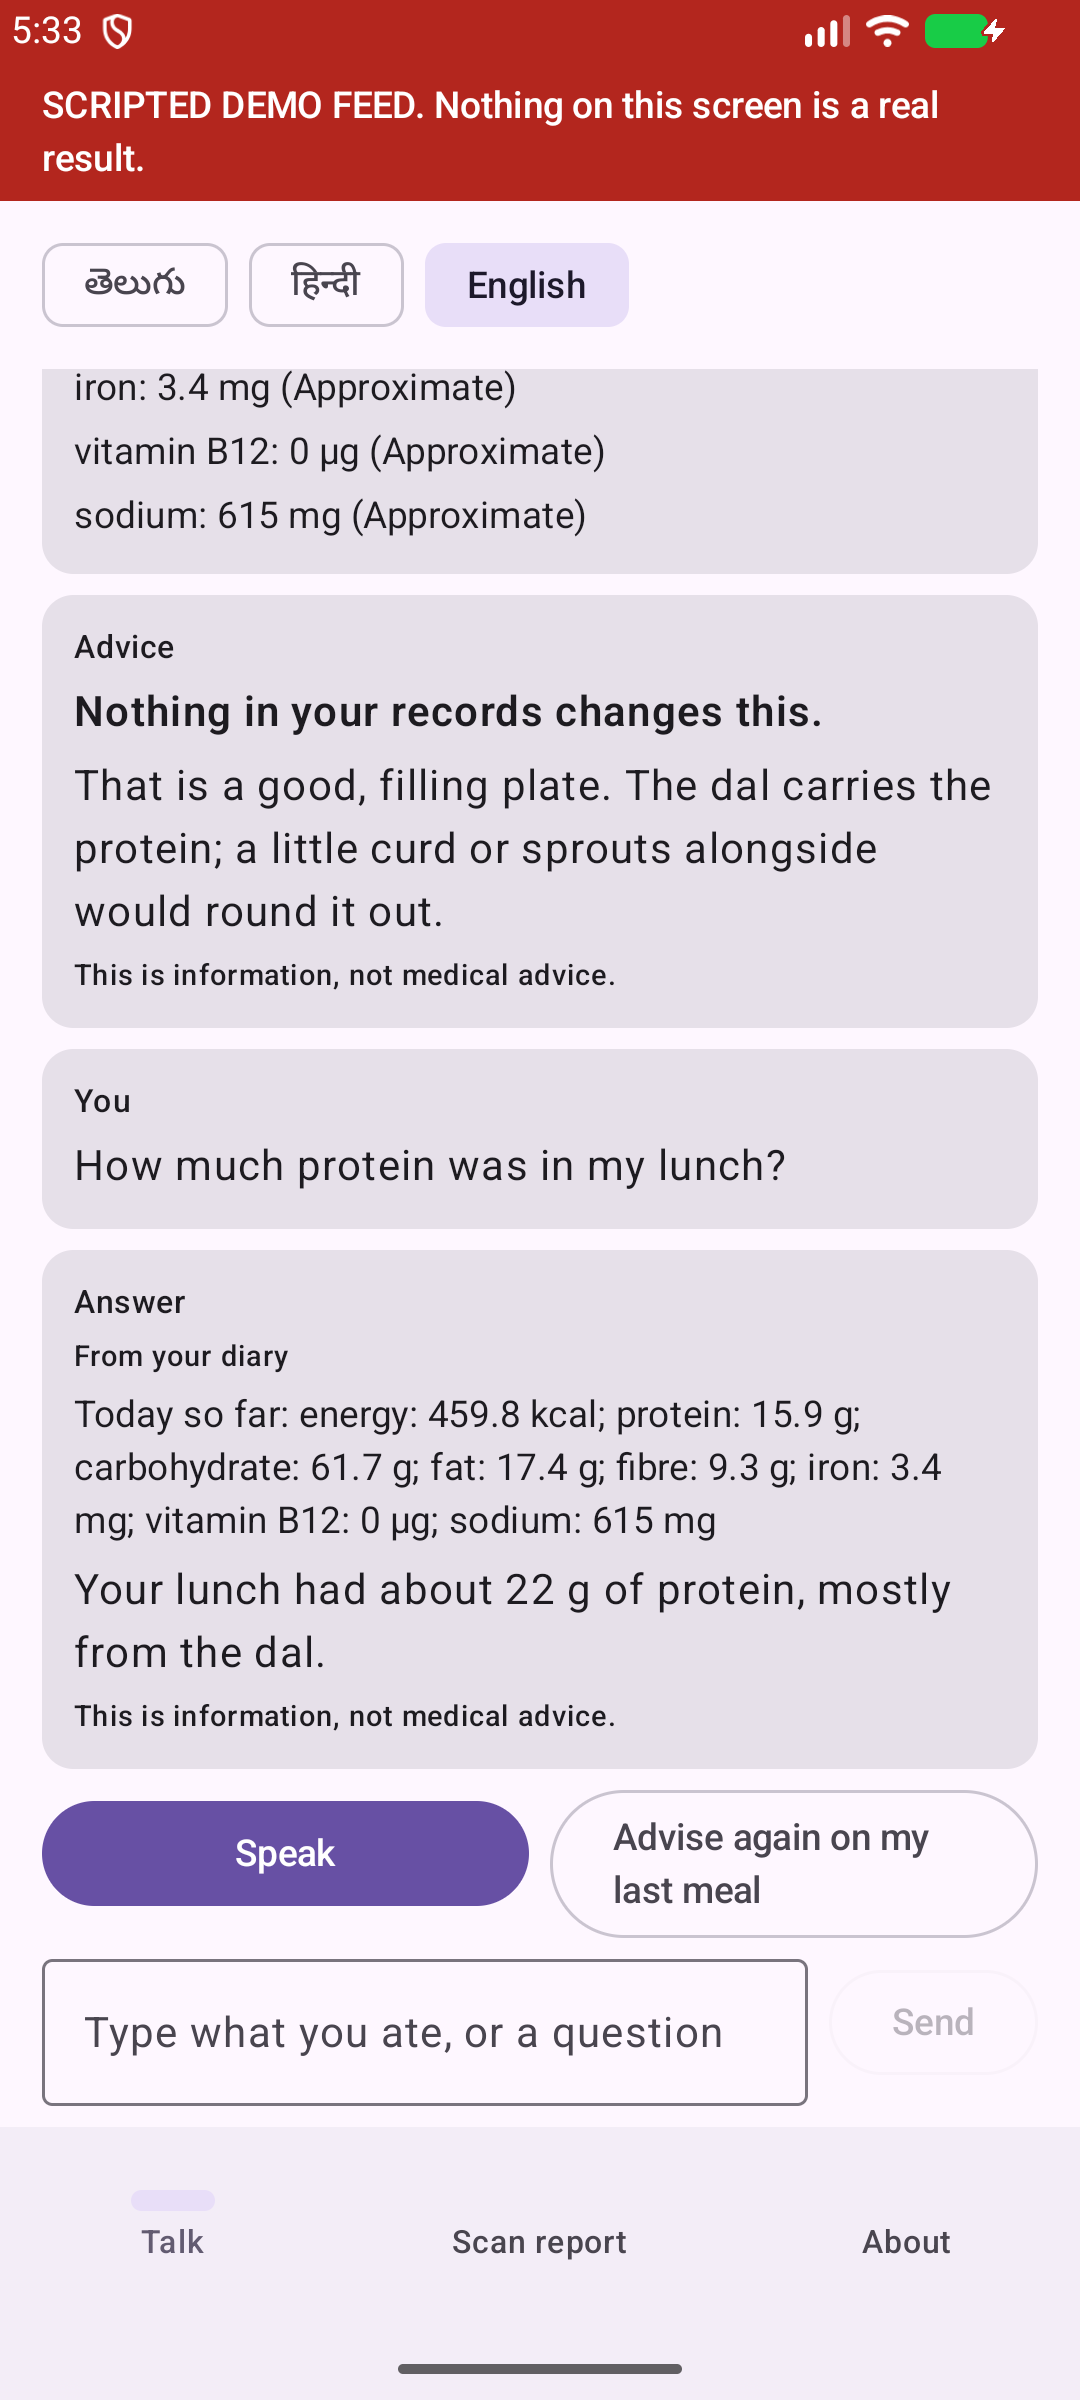
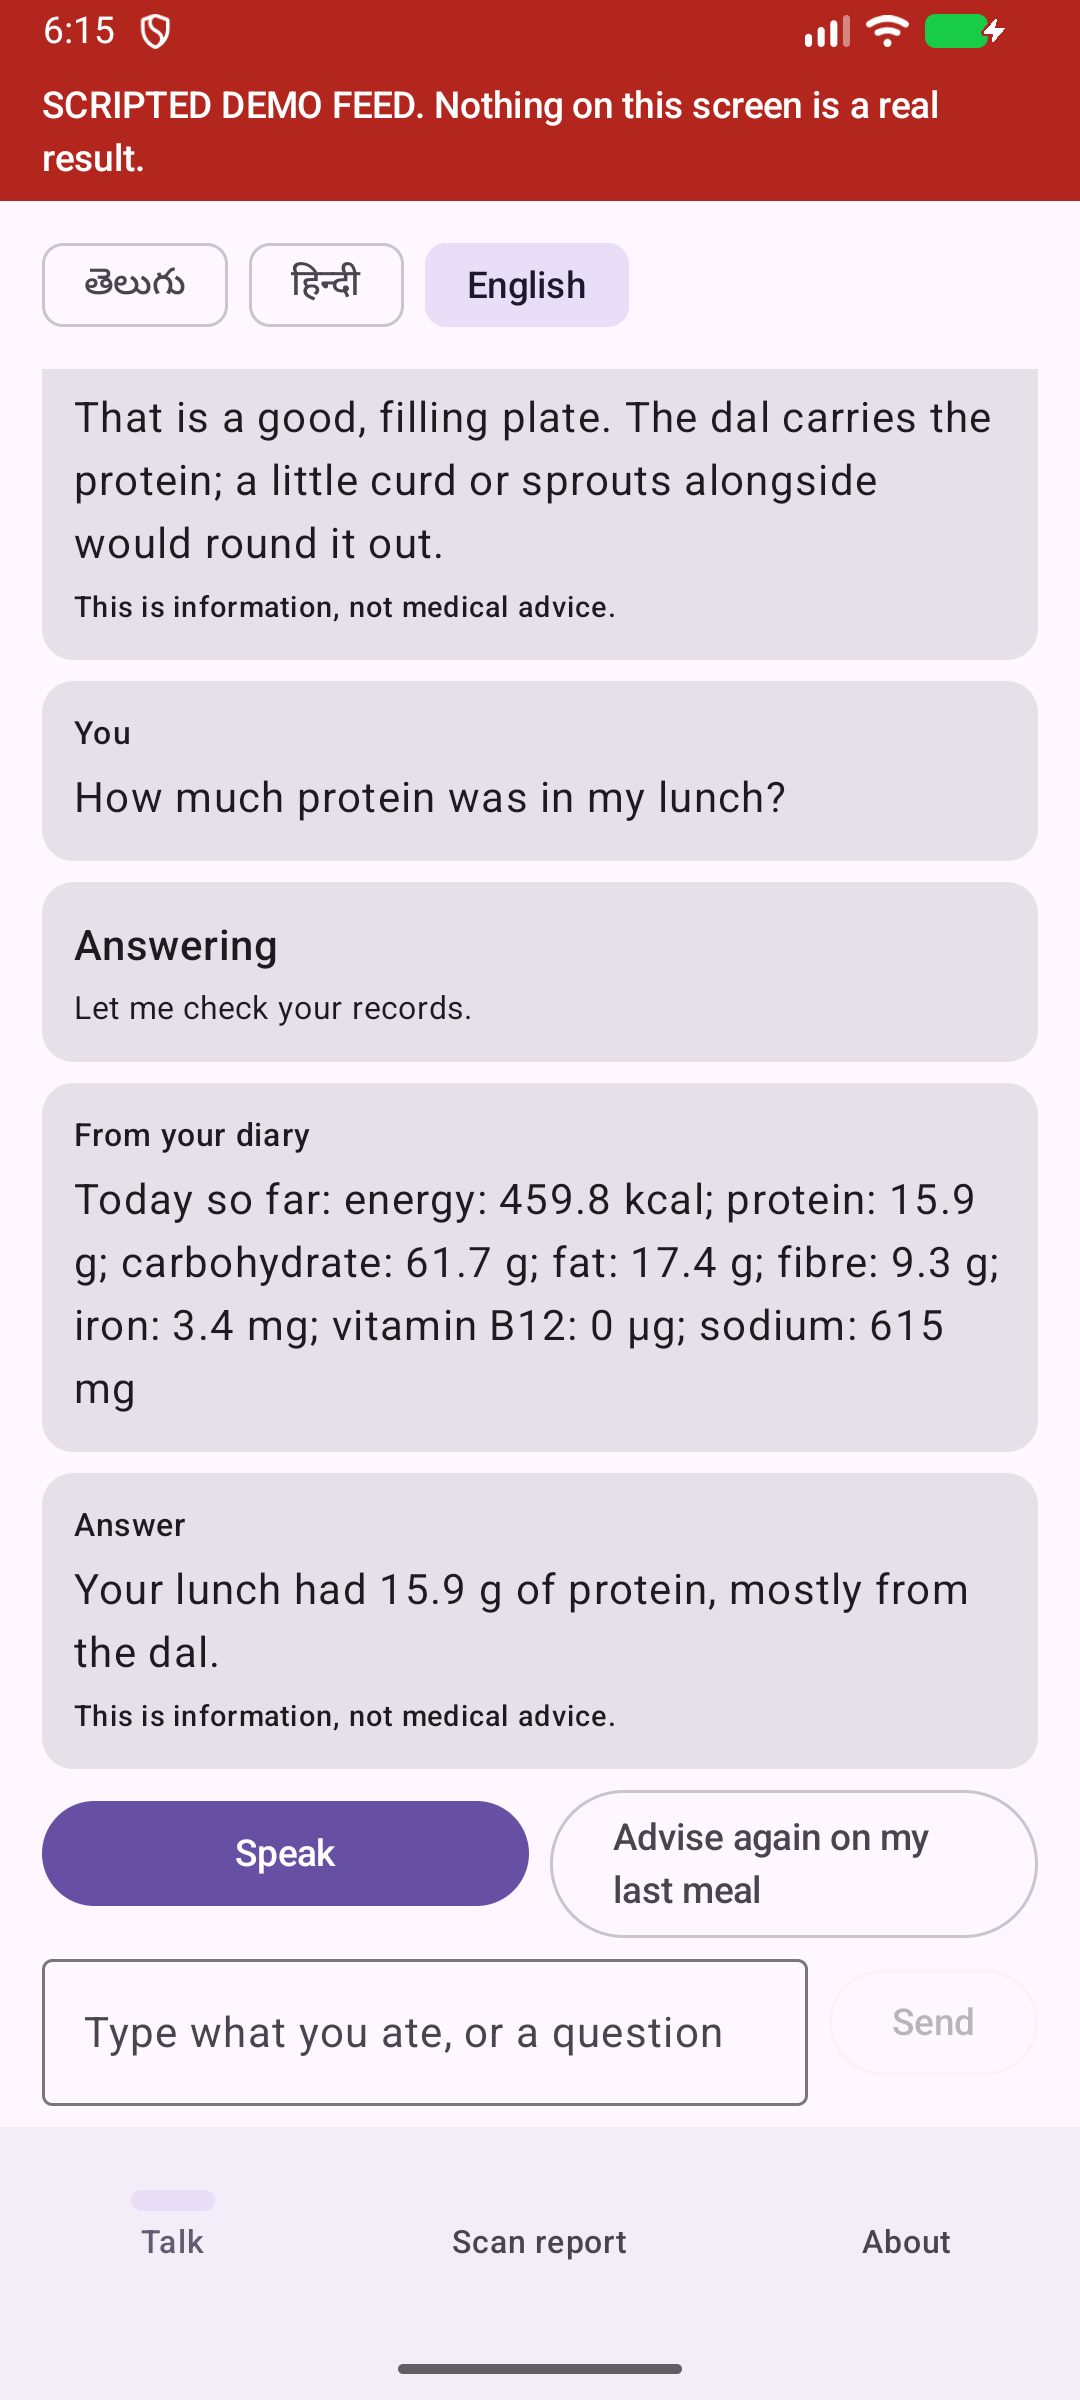
Render the intent heading, the diary lines before the answer, and a stop control; retake beat 2
IntentKnown becomes the heading over the turn with the lead-in phrase as
spoken; OwnFigures becomes its own card the moment it arrives, before any
model call, so the person's figure is on screen and the model's sentence
is the part that arrives late; StopSpeaking replaces Speak while the
answer is spoken. The scripted feed emits the same three, and its answer
takes its one number from the totals the diary line shows. Beat 2 retaken
on the emulator with the feed on.

diff --git a/app/src/main/java/io/github/vedant7007/katori/ui/TalkViewModel.kt b/app/src/main/java/io/github/vedant7007/katori/ui/TalkViewModel.kt
@@ -1,8 +1,11 @@
 package io.github.vedant7007.katori.ui
 
+import android.content.Context
 import androidx.lifecycle.ViewModel
 import androidx.lifecycle.viewModelScope
 import dagger.hilt.android.lifecycle.HiltViewModel
+import dagger.hilt.android.qualifiers.ApplicationContext
+import io.github.vedant7007.katori.R
 import io.github.vedant7007.katori.domain.ContextText
 import io.github.vedant7007.katori.domain.Orchestrator
 import io.github.vedant7007.katori.domain.OrchestratorEvent
@@ -50,13 +53,28 @@ class TalkViewModel @Inject constructor(
     private val triggerText: TriggerText,
     private val contextText: ContextText,
     rules: RulesEngine,
+    @ApplicationContext context: Context,
 ) : ViewModel() {
 
-    private val scripted = ScriptedOrchestrator(rules, contextText, triggerText)
+    private val scripted = ScriptedOrchestrator(
+        rules, contextText, triggerText,
+        leadIns = mapOf(
+            SpokenIntent.LOG to context.getString(R.string.tts_lead_in_log),
+            SpokenIntent.ANSWER to context.getString(R.string.tts_lead_in_answer),
+            SpokenIntent.SUGGEST to context.getString(R.string.tts_lead_in_suggest),
+            SpokenIntent.RECOMMEND to context.getString(R.string.tts_lead_in_recommend),
+        ),
+    )
 
     sealed interface Entry {
         /** What was heard or typed, shown the moment it is known. */
         data class Said(val text: String) : Entry
+
+        /** 0026 step 5: which of the four the turn became, and the lead-in phrase as it is spoken. */
+        data class Heading(val intent: SpokenIntent, val leadIn: String?) : Entry
+
+        /** The person's own lines, straight from the store, before any model call: the answer itself. */
+        data class Figures(val lines: List<String>) : Entry
 
         /** A resolved plate: the items as said, each figure as a rendered line with its band. */
         data class Plate(
@@ -110,6 +128,12 @@ class TalkViewModel @Inject constructor(
     fun resolve(transcript: String, intent: SpokenIntent) = run(UserIntent.Resolve(transcript, language(), intent))
     fun adviseAgain() { state.value.lastMealId?.let { run(UserIntent.AdviseOnMeal(it)) } }
 
+    /** 0026 step 8: stops speech only; the turn and its text are untouched. Sent while busy, by design. */
+    fun stopSpeaking() {
+        val source = if (DemoFeed.enabled.value) scripted else orchestrator
+        viewModelScope.launch(Dispatchers.Default) { source.handle(UserIntent.StopSpeaking).catch { }.collect { } }
+    }
+
     private fun language() = SpeechLanguageRef(state.value.language)
 
     private fun run(intent: UserIntent) {
@@ -135,9 +159,9 @@ class TalkViewModel @Inject constructor(
             is OrchestratorEvent.Progress -> _state.update { it.copy(stages = it.stages + event.stage, elapsedSeconds = 0) }
             is OrchestratorEvent.AudioLevel -> _state.update { it.copy(level = event.rms.coerceIn(0f, 1f)) }
             is OrchestratorEvent.Transcribed -> add(Entry.Said(event.text))
-            // The two events the 0026 screen asked for; rendering them is Arjun's next step.
-            is OrchestratorEvent.IntentKnown -> Unit
-            is OrchestratorEvent.OwnFigures -> Unit
+            is OrchestratorEvent.IntentKnown -> add(Entry.Heading(event.intent, event.leadIn))
+            is OrchestratorEvent.OwnFigures -> add(Entry.Figures(event.lines))
+            // The Scan tab's turn; the Talk tab never sends SaveLabReport.
             is OrchestratorEvent.LabReportSaved -> Unit
             is OrchestratorEvent.NeedsIntent -> add(Entry.AskIntent(event.transcript))
             is OrchestratorEvent.NeedsConfirmation -> add(Entry.Confirm(event.why, event.parsed.items))
@@ -162,7 +186,12 @@ class TalkViewModel @Inject constructor(
                     candidates = event.evaluation.rankedCandidates.map { it.candidate.displayName },
                 )
             )
-            is OrchestratorEvent.Answered -> add(Entry.Answer(event.text, event.referral, event.figures))
+            // The lines were already on screen if OwnFigures came first; the answer card repeats
+            // them only when they were not.
+            is OrchestratorEvent.Answered -> _state.update { s ->
+                val shown = s.entries.indexOfLast { it is Entry.Figures } > s.entries.indexOfLast { it is Entry.Said }
+                s.copy(entries = s.entries + Entry.Answer(event.text, event.referral, if (shown) emptyList() else event.figures))
+            }
             is OrchestratorEvent.Failed -> add(Entry.Failed(event.reason, event.detail))
             is OrchestratorEvent.NotImplemented -> add(Entry.NotBuilt(event.component))
             OrchestratorEvent.Completed -> Unit

diff --git a/app/src/main/java/io/github/vedant7007/katori/ui/ScanViewModel.kt b/app/src/main/java/io/github/vedant7007/katori/ui/ScanViewModel.kt
@@ -5,7 +5,10 @@ import androidx.lifecycle.ViewModel
 import androidx.lifecycle.viewModelScope
 import dagger.hilt.android.lifecycle.HiltViewModel
 import io.github.vedant7007.katori.domain.LabValue
+import io.github.vedant7007.katori.domain.ContextText
 import io.github.vedant7007.katori.domain.Orchestrator
+import io.github.vedant7007.katori.domain.RulesEngine
+import io.github.vedant7007.katori.domain.TriggerText
 import io.github.vedant7007.katori.domain.OrchestratorEvent
 import io.github.vedant7007.katori.domain.UserIntent
 import io.github.vedant7007.katori.domain.model.Outcome
@@ -25,6 +28,7 @@ import kotlinx.coroutines.flow.StateFlow
 import kotlinx.coroutines.flow.asStateFlow
 import kotlinx.coroutines.flow.update
 import kotlinx.coroutines.launch
+import java.time.LocalDate
 import javax.inject.Inject
 
 /**
@@ -32,15 +36,21 @@ import javax.inject.Inject
  *
  * A captured frame goes through [OcrEngine] and [LabReportExtractor]; every field is shown
  * beside the row it was read from, ticked, for the person to untick. Saving hands the ticked
- * values to the orchestrator. Until `UserIntent.SaveLabReport` lands (COORDINATION.md, 14:30)
- * the existing `ScanLabReport` intent is sent and its NotImplemented is shown as such.
+ * values to the orchestrator as `UserIntent.SaveLabReport` (COORDINATION.md, agreed 14:55),
+ * which writes them and answers with how many.
  */
 @HiltViewModel
 class ScanViewModel @Inject constructor(
     private val frames: FrameStore,
     private val ocr: OcrEngine,
     private val orchestrator: Orchestrator,
+    rules: RulesEngine,
+    contextText: ContextText,
+    triggerText: TriggerText,
 ) : ViewModel() {
+
+    /** The scripted feed's twin, so a scripted save lands where the scripted advise-again reads (0027). */
+    private val scripted = ScriptedOrchestrator(rules, contextText, triggerText)
 
     data class Field(val field: LabField, val ticked: Boolean)
 
@@ -89,17 +99,14 @@ class ScanViewModel @Inject constructor(
         _state.update { it.copy(saving = true, notBuilt = null, failure = null) }
         val confirmed = state.value.fields.filter { it.ticked }.map { it.field }
         val date = state.value.report?.reportDate
+        // The write is the orchestrator's (agreed 14:55, landed 18:07). A row whose unit was not
+        // read is saved with an empty unit: its value is still comparable to its own printed range.
+        val values = confirmed.map { LabValue(it.testName, it.value, it.unit.orEmpty(), it.referenceLow, it.referenceHigh, date ?: LocalDate.now()) }
+        val source = if (DemoFeed.enabled.value) scripted else orchestrator
         viewModelScope.launch(Dispatchers.Default) {
-            if (DemoFeed.enabled.value) {
-                // The script keeps the confirmed values so beat 4 evaluates against them.
-                DemoFeed.labValues += confirmed.map { LabValue(it.testName, it.value, it.unit.orEmpty(), it.referenceLow, it.referenceHigh, date ?: ScriptedOrchestrator.REPORT_DATE) }
-                _state.update { it.copy(saving = false, savedCount = confirmed.size) }
-                return@launch
-            }
-            // The intent that carries the confirmed values is Rao's to add (agreed 14:55). Until
-            // then this is the contract's own not-built path.
-            orchestrator.handle(UserIntent.ScanLabReport).collect { ev ->
+            source.handle(UserIntent.SaveLabReport(values)).collect { ev ->
                 when (ev) {
+                    is OrchestratorEvent.LabReportSaved -> _state.update { it.copy(savedCount = ev.count) }
                     is OrchestratorEvent.NotImplemented -> _state.update { it.copy(notBuilt = ev.component) }
                     is OrchestratorEvent.Failed -> _state.update { it.copy(failure = ev.reason, failureDetail = ev.detail) }
                     else -> Unit

diff --git a/app/src/main/java/io/github/vedant7007/katori/ui/demo/ScriptedOrchestrator.kt b/app/src/main/java/io/github/vedant7007/katori/ui/demo/ScriptedOrchestrator.kt
@@ -56,6 +56,8 @@ class ScriptedOrchestrator(
     private val rules: RulesEngine,
     private val contextText: ContextText,
     private val triggerText: TriggerText,
+    /** The lead-in phrase per intent, from the string table; empty in a JVM test. */
+    private val leadIns: Map<SpokenIntent, String> = emptyMap(),
 ) : Orchestrator {
 
     override fun handle(intent: UserIntent): Flow<OrchestratorEvent> = flow {
@@ -73,9 +75,13 @@ class ScriptedOrchestrator(
             is UserIntent.Resolve -> turn(intent.text, intent.intent)
             is UserIntent.AdviseOnMeal -> adviseAgain()
             UserIntent.ScanLabReport -> { emit(Progress(Stage.SAVING)); delay(400); emit(OrchestratorEvent.Completed) }
-            // The two intents the contract gained on 20 Sep; the scripted feed treats the save as
-            // its scan and has no voice to stop. Arjun's to script if the beats need them.
-            is UserIntent.SaveLabReport -> { emit(Progress(Stage.SAVING)); delay(400); emit(OrchestratorEvent.LabReportSaved(intent.values.size, null)); emit(OrchestratorEvent.Completed) }
+            is UserIntent.SaveLabReport -> {
+                // The script keeps the confirmed values so beat 4 evaluates against them.
+                emit(Progress(Stage.SAVING)); delay(400)
+                DemoFeed.labValues += intent.values
+                emit(OrchestratorEvent.LabReportSaved(intent.values.size, DemoFeed.lastMeal?.mealId))
+                emit(OrchestratorEvent.Completed)
+            }
             UserIntent.StopSpeaking -> emit(OrchestratorEvent.Completed)
             is UserIntent.CorrectValue, is UserIntent.ScanPackagedLabel, is UserIntent.CheckExerciseForm ->
                 { emit(OrchestratorEvent.NotImplemented("demo." + intent::class.simpleName)); emit(OrchestratorEvent.Completed) }
@@ -91,6 +97,7 @@ class ScriptedOrchestrator(
             emit(OrchestratorEvent.Completed)
             return
         }
+        emit(OrchestratorEvent.IntentKnown(decided, leadIns[decided]))
         when (decided) {
             SpokenIntent.LOG -> plate(text, save = true)
             SpokenIntent.SUGGEST -> plate(text, save = false)
@@ -143,6 +150,7 @@ class ScriptedOrchestrator(
     private suspend fun FlowCollector<OrchestratorEvent>.answer() {
         emit(Progress(Stage.EVALUATING_RULES)); delay(300)
         val lines = ownLines()
+        emit(OrchestratorEvent.OwnFigures(lines))
         emit(Progress(Stage.RETRIEVING_FACTS)); delay(400)
         emit(Progress(Stage.PHRASING)); delay(2500)
         // The script obeys the numeric guard's rule: the only number in its sentence is one the
@@ -156,6 +164,7 @@ class ScriptedOrchestrator(
     private suspend fun FlowCollector<OrchestratorEvent>.recommend() {
         emit(Progress(Stage.EVALUATING_RULES)); delay(400)
         val evaluation = rules.evaluate(input(meal = null, Instant.now()))
+        emit(OrchestratorEvent.OwnFigures(ownLines()))
         emit(Progress(Stage.RETRIEVING_FACTS)); delay(400)
         emit(Progress(Stage.PHRASING)); delay(2200)
         val referral = evaluation.trigger?.let(triggerText::render).takeIf { evaluation.referralRequired }

diff --git a/app/src/main/java/io/github/vedant7007/katori/ui/TalkScreen.kt b/app/src/main/java/io/github/vedant7007/katori/ui/TalkScreen.kt
@@ -106,15 +106,20 @@ fun TalkScreen(vm: TalkViewModel = hiltViewModel()) {
             modifier = Modifier.fillMaxWidth().padding(vertical = 8.dp),
             horizontalArrangement = Arrangement.spacedBy(8.dp),
         ) {
-            Button(
-                enabled = !state.busy,
-                onClick = {
-                    val granted = ContextCompat.checkSelfPermission(context, Manifest.permission.RECORD_AUDIO) == PackageManager.PERMISSION_GRANTED
-                    if (granted) vm.speak() else askMic.launch(Manifest.permission.RECORD_AUDIO)
-                },
-                modifier = Modifier.weight(1f),
-            ) {
-                Text(stringResource(if (state.stage == Stage.RECORDING) R.string.mic_listening else R.string.mic_speak))
+            if (state.stage == Stage.SPEAKING) {
+                // 0026 step 8: stops speech only; the answer stays on screen.
+                Button(onClick = vm::stopSpeaking, modifier = Modifier.weight(1f)) { Text(stringResource(R.string.stop_speaking)) }
+            } else {
+                Button(
+                    enabled = !state.busy,
+                    onClick = {
+                        val granted = ContextCompat.checkSelfPermission(context, Manifest.permission.RECORD_AUDIO) == PackageManager.PERMISSION_GRANTED
+                        if (granted) vm.speak() else askMic.launch(Manifest.permission.RECORD_AUDIO)
+                    },
+                    modifier = Modifier.weight(1f),
+                ) {
+                    Text(stringResource(if (state.stage == Stage.RECORDING) R.string.mic_listening else R.string.mic_speak))
+                }
             }
             if (state.lastMealId != null) {
                 OutlinedButton(enabled = !state.busy, onClick = vm::adviseAgain, modifier = Modifier.weight(1f)) {
@@ -151,6 +156,15 @@ private fun EntryCard(entry: Entry, onResolve: (String, SpokenIntent) -> Unit) {
                 is Entry.Said -> {
                     Text(stringResource(R.string.said_by_you), style = MaterialTheme.typography.labelMedium)
                     Text(entry.text, style = MaterialTheme.typography.bodyLarge)
+                }
+                is Entry.Heading -> {
+                    Text(stringResource(Sentences.intent(entry.intent)), style = MaterialTheme.typography.titleMedium)
+                    // Nothing spoken is not on screen (0026): the lead-in phrase, as it is spoken.
+                    entry.leadIn?.let { Text(it, style = MaterialTheme.typography.bodySmall) }
+                }
+                is Entry.Figures -> {
+                    Text(stringResource(R.string.answer_from_diary), style = MaterialTheme.typography.labelMedium)
+                    entry.lines.forEach { Text(it, style = MaterialTheme.typography.bodyLarge) }
                 }
                 is Entry.Plate -> {
                     if (entry.hypothetical) Text(stringResource(R.string.meal_hypothetical), style = MaterialTheme.typography.labelMedium)

diff --git a/app/src/main/java/io/github/vedant7007/katori/ui/Sentences.kt b/app/src/main/java/io/github/vedant7007/katori/ui/Sentences.kt
@@ -2,6 +2,7 @@ package io.github.vedant7007.katori.ui
 
 import androidx.annotation.StringRes
 import io.github.vedant7007.katori.R
+import io.github.vedant7007.katori.domain.SpokenIntent
 import io.github.vedant7007.katori.domain.Stage
 import io.github.vedant7007.katori.domain.model.ConfidenceBand
 import io.github.vedant7007.katori.domain.model.UnavailableReason
@@ -44,6 +45,15 @@ object Sentences {
         UnavailableReason.CANCELLED -> R.string.unavailable_cancelled
         UnavailableReason.SCHEMA_VALIDATION_FAILED -> R.string.unavailable_schema_validation_failed
         UnavailableReason.INTERNAL_ERROR -> R.string.unavailable_internal_error
+    }
+
+    /** 0026 step 5: the intent as a heading. */
+    @StringRes
+    fun intent(intent: SpokenIntent): Int = when (intent) {
+        SpokenIntent.LOG -> R.string.intent_heading_log
+        SpokenIntent.ANSWER -> R.string.intent_heading_answer
+        SpokenIntent.SUGGEST -> R.string.intent_heading_suggest
+        SpokenIntent.RECOMMEND -> R.string.intent_heading_recommend
     }
 
     @StringRes

diff --git a/COORDINATION.md b/COORDINATION.md
@@ -2248,3 +2248,15 @@ names are people. The README now has one line saying where the Katori name survi
 (landed a commit after c820963, whose message claimed it a commit early).
 TO RAO: `tools/hardware-probe.ps1:24` hard-codes `C:\Users\vedan\AppData\Local\Android\Sdk`;
 `build-llama-android.ps1` reads `$env:LOCALAPPDATA` for the same path. One line, yours.
+[Arjun 18:17] RAO'S THREE EVENTS ARE RENDERED, same hour they landed. `IntentKnown` is the
+heading over the turn ("Answering") with the lead-in line under it, as spoken; `OwnFigures` is
+its own card, "From your diary", the moment it arrives and before any model call; `StopSpeaking`
+replaces the Speak button with Stop while `Stage.SPEAKING`. `beat2-answer.png` is retaken and
+is now the shape of the ruling: the person's protein figure on screen under the heading, then
+the model's sentence carrying the same number. The scripted feed emits all three too, and its
+answer takes its one number from the same totals the diary line shows, the numeric guard's
+rule applied to script. Keys added: `intent_heading_` (4) and `stop_speaking`; Nila, that is
+the last of mine before 22:00. JVM suite in my tree 343 run, 3 failures, all three in
+`RoutingDefectsTest` (Priya's, red by design for the integrator, `1d17896`), none in `ui/`;
+every XML 17:40. The emulator at 2 GB wedges its own SystemUI within minutes; `-memory 4096
+-cores 4` on the command line is the setting that holds, recorded here for whoever runs it next.
